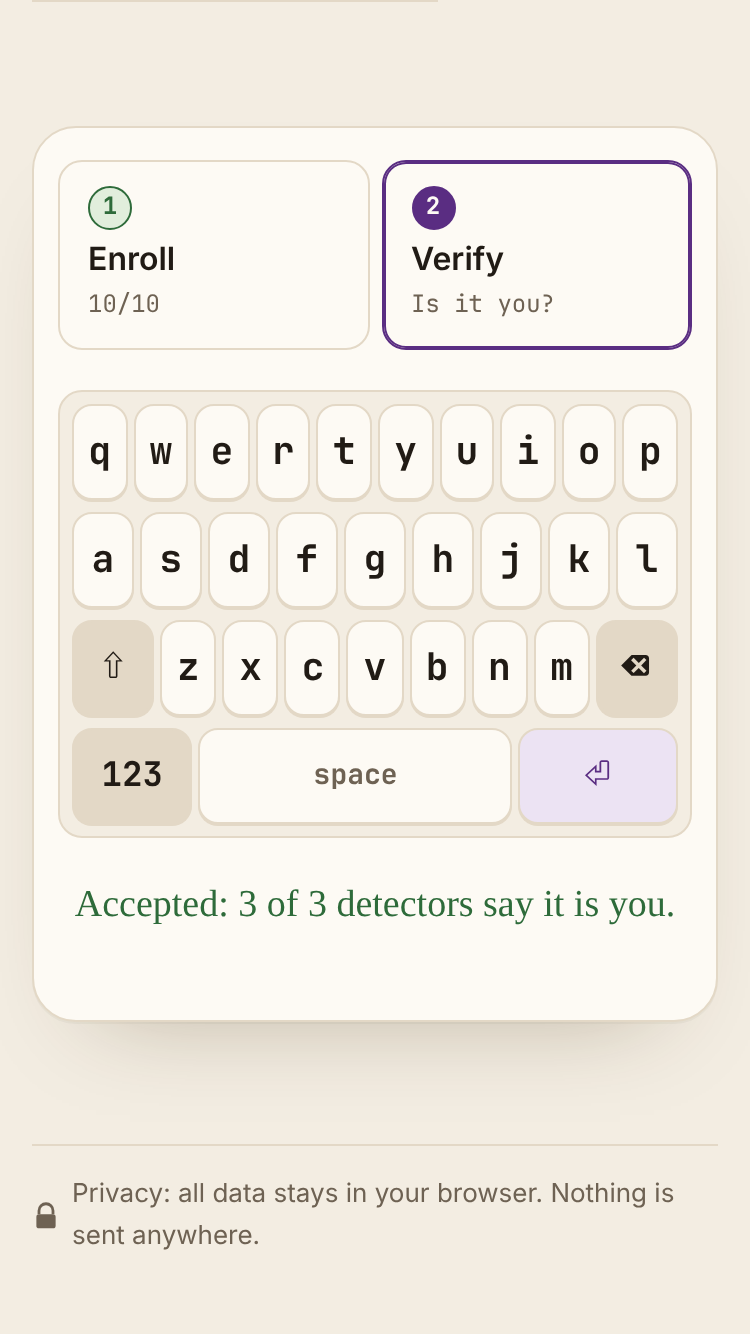
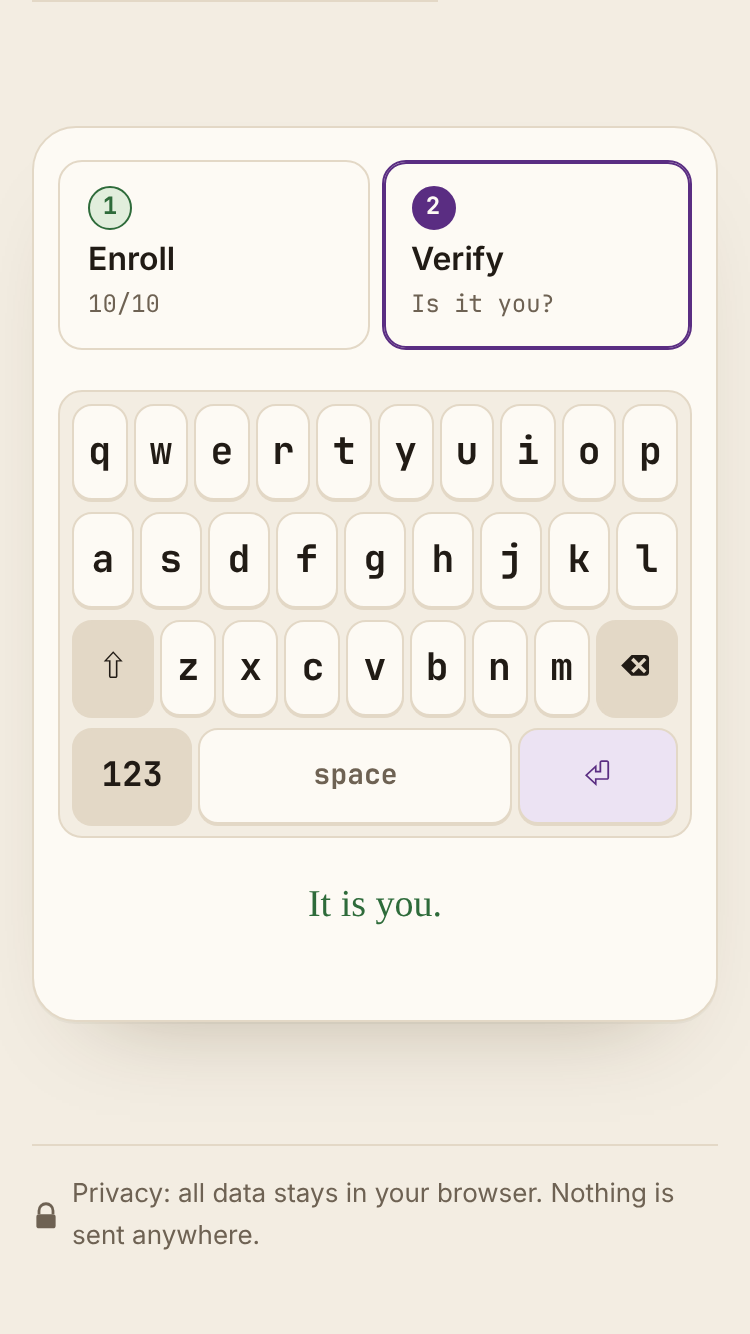
Add an "Is it really you?" backup option on Verify (#9)
* Add an "Is it really you?" backup option on Verify

The security question is now offered on the Verify step before any try and
after any rejection (wrong password or rhythm), not only after a rhythm
reject. It hides once a try is accepted. How it works, README and e2e tests
updated.

Claude-Session: https://claude.ai/code/session_01B27shn1UA1Th7jNnUgoiUQ

* Verify: say "It is you." on accept, a funny line on a rhythm reject

Drop the detector vote count from the Try it messages. The Detectors tab
still shows the vote table.

Claude-Session: https://claude.ai/code/session_01B27shn1UA1Th7jNnUgoiUQ

---------

Changed region(s): [[0.368, 0.6454, 0.7053, 0.7069], [0.1227, 0.6762, 0.3067, 0.7069], [0.7667, 0.6762, 0.8893, 0.7069]]

diff --git a/index.html b/index.html
@@ -188,6 +188,8 @@ h2{font-size:12px;letter-spacing:.14em}
 .try .status.ok{color:var(--ok)} .try .status.bad{color:var(--bad)}
 /* Try it: reset (Enroll only) and the security-question backup sit under the message */
 .stage-foot{display:flex;justify-content:center}
+.btn.quiet{border-color:transparent;background:none;color:var(--accent);text-decoration:underline;text-underline-offset:3px;min-height:36px}
+.btn.quiet:hover{border-color:transparent;text-decoration-thickness:2px}
 .capture{display:grid;gap:20px}
 /* set up: own password + security question */
 .setup{display:grid;gap:18px}
@@ -327,7 +329,7 @@ h2{font-size:12px;letter-spacing:.14em}
       <div class="keypad" id="keypad" role="group" aria-label="On-screen keyboard" hidden></div>
     </div>
     <div class="status" id="status" aria-live="polite">First, create your own password and a security question.</div>
-    <div class="stage-foot" id="recover-row" hidden><button class="btn" id="recover-open" type="button">It is me: answer my security question</button></div>
+    <div class="stage-foot" id="recover-row" hidden><button class="btn quiet" id="recover-open" type="button" aria-label="Is it really you? Answer your security question">Is it really you?</button></div>
     <form class="recover" id="recover" hidden>
       <p class="recover-q" id="recover-q"></p>
       <label for="recover-a" class="sr-only">Your answer</label>
@@ -434,7 +436,7 @@ h2{font-size:12px;letter-spacing:.14em}
           </tbody>
         </table>
       </div>
-      <p>These are the same messages you see on the Try it tab after a verify.</p>
+      <p>The Try it tab keeps it short: an accepted try just says <strong>It is you.</strong>, and a rejected one gets a cheeky line instead of the vote count.</p>
     </section>
 
     <div class="how-notes">
@@ -490,7 +492,7 @@ h2{font-size:12px;letter-spacing:.14em}
       </li>
       <li>
         <h3>Rejected but it really is you? Answer your question</h3>
-        <p>Your own rhythm can drift. When the right password is rejected on rhythm, the page offers your security question. Answer it correctly and you are let in, and the page offers to retrain on how you type now. Reset on the Enroll step wipes everything so you can start over with a new password.</p>
+        <p>Your own rhythm can drift. Under the password box on the Verify step there is an <strong>Is it really you?</strong> link, before you type and after any rejection. Tap it, answer your security question correctly, and you are let in, and the page offers to retrain on how you type now. Reset on the Enroll step wipes everything so you can start over with a new password.</p>
       </li>
     </ol>
 
@@ -1175,7 +1177,7 @@ if (typeof module !== 'undefined') module.exports = KPT;
   var tryCap = Capturer({
     input: $('pass'), keypad: $('keypad'), status: setStatus,
     blocked: function () { return checking ? 'One moment, checking the last try…' : null; },
-    onStart: function () { setStatus('Recording…'); showRecover(false); },
+    onStart: function () { setStatus('Recording…'); paintRecover(); },
     onComplete: function (r, device) { finishAttempt(r, device); }
   });
 
@@ -1211,20 +1213,28 @@ if (typeof module !== 'undefined') module.exports = KPT;
   }
   function train() { state.trained = state.samples.length >= 3 ? KP.trainAll(state.samples) : null; }
 
-  // ---------- verify: 2 of 3 detectors must accept; a rhythm reject offers the security question ----------
+  // ---------- verify: 2 of 3 detectors must accept; "Is it really you?" (the security question) is offered until a try is accepted ----------
+  // right password, wrong rhythm: one of these, picked at random
+  var NOT_YOU = [
+    'Nice try. You know the password, but your fingers just snitched on you.',
+    'Right password, wrong fingers. Who are you, and what did you do with the owner?',
+    'The password is correct. The vibes are not.',
+    'Those keys were pressed by a stranger. The keyboard never forgets a rhythm.',
+    'You typed it perfectly. Too bad perfectly like someone else.'
+  ];
   function onVerify(x) {
     if (!state.trained) { setStatus('Train a profile first.', 'bad'); return; }
     var accepts = KP.DETECTORS.filter(function (d) {
       return d.score(state.trained[d.id].model, x) <= KP.thresholdAt(state.trained[d.id].loo, state.frr);
     }).length, ok = accepts >= 2;
-    setStatus(ok ? 'Accepted: ' + accepts + ' of 3 detectors say it is you.' : 'Rejected: right password, but only ' + accepts + ' of 3 detectors say it is you.', ok ? 'ok' : 'bad');
-    showRecover(!ok);
+    setStatus(ok ? 'It is you.' : NOT_YOU[Math.floor(Math.random() * NOT_YOU.length)], ok ? 'ok' : 'bad');
+    if (ok) $('recover-row').hidden = true;
   }
 
-  // ---------- security question (backup after a rhythm reject) ----------
-  function showRecover(on) {
-    $('recover-row').hidden = !on;
-    if (!on) { $('recover').hidden = true; $('retrain-row').hidden = true; }
+  // ---------- security question: the "Is it really you?" backup on the Verify step ----------
+  function paintRecover() {
+    $('recover-row').hidden = !(account && state.trained && state.step === 'verify');
+    $('recover').hidden = true; $('retrain-row').hidden = true;
   }
   $('recover-open').addEventListener('click', function () {
     $('recover-row').hidden = true; $('recover').hidden = false;
@@ -1245,7 +1255,7 @@ if (typeof module !== 'undefined') module.exports = KPT;
     }, function () { $('recover-check').disabled = false; $('recover-msg').textContent = 'This browser could not check the answer.'; });
   });
   $('retrain').addEventListener('click', function () {
-    showRecover(false); clearSamples();
+    clearSamples();
     setStatus('Retraining. Step 1: type your password 10 times.', 'ok'); tryCap.focus();
   });
 
@@ -1271,7 +1281,7 @@ if (typeof module !== 'undefined') module.exports = KPT;
     try { localStorage.removeItem(ACCOUNT); localStorage.removeItem(STORE.desktop); localStorage.removeItem(STORE.mobile); } catch (e) { }
     account = null;
     state.samples = []; state.trained = null; state.frr = 0.05; state.lastX = null;
-    showRecover(false); setStep('enroll'); render();
+    setStep('enroll'); render();
     setStatus('Reset done. Create a new password to start again.', 'ok');
   }
   function resetButton(b, after) {
@@ -1352,11 +1362,10 @@ if (typeof module !== 'undefined') module.exports = KPT;
     });
     $('cap-h').textContent = setup ? 'Create your password' : HEADINGS[state.step];
     $('reset-row').hidden = setup || state.step !== 'enroll';
-    if (setup) showRecover(false);
+    paintRecover();
   }
   function setStep(s, focus) {
     if (s !== 'enroll' && !state.trained) s = 'enroll';
-    if (s !== state.step) showRecover(false);
     state.step = s; tryCap.reset();
     paintSteps();
     if (focus) tryCap.focus();
@@ -1407,7 +1416,7 @@ if (typeof module !== 'undefined') module.exports = KPT;
   window.KeyPrint = {
     lastVector: function () { return state.lastX && state.lastX.slice(); }, device: function () { return state.device; },
     keypad: function () { return keypadOn; }, samples: function () { return state.samples.length; }, trained: function () { return !!state.trained; },
-    hasAccount: function () { return !!account; }, busy: function () { return checking; },
+    hasAccount: function () { return !!account; }, busy: function () { return checking; }, notYou: function () { return NOT_YOU.slice(); },
     featureNames: function () { var n = dim(); return n ? (state.device === 'mobile' ? KPT.featureNames((n + 2) / 5) : KPF.names((n + 2) / 3)) : []; }
   };
 

diff --git a/test_e2e.js b/test_e2e.js
@@ -2,7 +2,7 @@
 // Phone (375×667, touch, DPR 2): create a password, real touch input via CDP on the full on-screen keyboard (Shift, 123),
 // keypad attempt -> 31 + 22 features, multi-touch, Backspace, enroll + verify, canvas DPR + resize, touch targets, no overflow.
 // Desktop (1440×900): password rules and inline errors, keyboard attempt -> 31 features, wrong password not counted,
-// rhythm reject -> security question -> retrain, Reset on the Enroll step only, no shared passphrase anywhere, How it works, Detectors tab.
+// "Is it really you?" always on Verify -> security question -> retrain, Reset on the Enroll step only, no shared passphrase anywhere, How it works, Detectors tab.
 // Writes docs/screenshots/*.png.
 'use strict';
 const path = require('path');
@@ -169,7 +169,10 @@ async function typeKeys(page, keys) {
   for (let k = 1; k < 10; k++) { await tapAttempt(page, t, '#keypad', { id0: 1000 * k, off: (i) => [0.05 * Math.sin(i + k), 0.1] }); await waitIdle(page); }
   check('10 keypad samples -> trained phone profile', await page.evaluate(() => KeyPrint.trained() && KeyPrint.samples() === 10));
   await tapAttempt(page, t, '#keypad', { id0: 50000, off: () => [0, 0.1] }); await waitIdle(page);
-  check('verify attempt gives a verdict', /Accepted|Rejected/.test(await page.textContent('#status')));
+  const verdict = () => page.evaluate(() => { const s = document.getElementById('status').textContent; return s === 'It is you.' ? 'yes' : KeyPrint.notYou().includes(s) ? 'no' : s; });
+  const v1 = await verdict();
+  check('verify attempt gives a verdict ("It is you." or a funny line, no detector count)', (v1 === 'yes' || v1 === 'no') && !/of 3 detectors/.test(await page.textContent('#status')), v1);
+  check('"Is it really you?" shown after a reject, hidden after an accept', (await page.isVisible('#recover-open')) === (v1 === 'no'));
   await page.screenshot({ path: path.join(SHOTS, 'mobile-375.png') });
   await page.screenshot({ path: path.join(SHOTS, 'mobile-375-full.png'), fullPage: true });
   const prof = await page.evaluate(() => JSON.parse(localStorage.getItem('keyprint.profile.mobile.v2')));
@@ -238,16 +241,20 @@ async function typeKeys(page, keys) {
   await page.reload(); await sleep(150);
   check('desktop profile trained (synthetic example)', await page.evaluate(() => KeyPrint.trained() && KeyPrint.device() === 'desktop'));
   check('Verify step open once trained', await page.evaluate(() => !document.getElementById('step-verify').disabled));
-  check('Verify hides Reset', (await tryParts()) === 'capture,status' && !(await page.isVisible('#reset')), await tryParts());
+  check('Verify hides Reset, shows "Is it really you?"', (await tryParts()) === 'capture,status,recover-row' && !(await page.isVisible('#reset')), await tryParts());
+  check('"Is it really you?" is on Verify before any try', (await page.textContent('#recover-open')) === 'Is it really you?' && await page.isVisible('#recover-open'));
+  await page.click('#step-enroll'); await sleep(60);
+  check('"Is it really you?" is not on Enroll', !(await page.isVisible('#recover-open')));
+  await page.click('#step-verify'); await sleep(60);
   await page.screenshot({ path: path.join(SHOTS, 'desktop-1440.png') });
 
-  // wrong password on Verify: rejected, no security question
+  // wrong password on Verify: rejected, "Is it really you?" stays
   await page.click('#pass'); await typeKeys(page, 'Tr0ub4dor?'.split('').concat('Enter'));
-  check('Verify, wrong password: rejected without the security question', /Rejected: that is not the password/.test(await page.textContent('#status')) && !(await page.isVisible('#recover-open')));
-  // right password, but this robot is not the synthetic typist: rejected on rhythm -> security question
+  check('Verify, wrong password: rejected, "Is it really you?" still offered', /Rejected: that is not the password/.test(await page.textContent('#status')) && await page.isVisible('#recover-open'));
+  // right password, but this robot is not the synthetic typist: rejected on rhythm -> "Is it really you?" -> security question
   await typeKeys(page, PASS);
-  check('Verify, right password, other rhythm: rejected on rhythm', /Rejected: right password/.test(await page.textContent('#status')), await page.textContent('#status'));
-  check('offers the security question', await page.isVisible('#recover-open'));
+  check('Verify, right password, other rhythm: rejected with a funny line', await page.evaluate(() => KeyPrint.notYou().includes(document.getElementById('status').textContent) && document.getElementById('status').classList.contains('bad')), await page.textContent('#status'));
+  check('"Is it really you?" still offered after a rhythm reject', await page.isVisible('#recover-open'));
   await page.click('#recover-open');
   check('shows your own question', (await page.textContent('#recover-q')) === Q && await page.evaluate(() => document.activeElement.id === 'recover-a'));
   await page.fill('#recover-a', 'red comet'); await page.click('#recover-check');
@@ -255,7 +262,7 @@ async function typeKeys(page, keys) {
   check('wrong answer refused', /not right/.test(await page.textContent('#recover-msg')) && !(await page.isVisible('#retrain')));
   await page.fill('#recover-a', '  blue   COMET '); await page.click('#recover-check');
   await page.waitForSelector('#retrain', { state: 'visible' });
-  check('right answer (any case, extra spaces) lets you in and offers retraining', /Correct answer: you are in/.test(await page.textContent('#status')) && !(await page.isVisible('#recover')));
+  check('right answer (any case, extra spaces) lets you in and offers retraining', /Correct answer: you are in/.test(await page.textContent('#status')) && !(await page.isVisible('#recover')) && !(await page.isVisible('#recover-open')));
   await page.screenshot({ path: path.join(SHOTS, 'desktop-1440-recover.png') });
   await page.click('#retrain');
   check('Retrain clears the rhythm but keeps the password', await page.evaluate(() => KeyPrint.samples() === 0 && !KeyPrint.trained() && KeyPrint.hasAccount() &&
@@ -281,6 +288,7 @@ async function typeKeys(page, keys) {
   // How it works: plain walkthrough only, no Reset
   await page.click('#tab-how'); await sleep(120);
   check('How it works is a 7-step walkthrough', (await page.$$('#view-how .walk > li')).length === 7);
+  check('How it works explains "Is it really you?"', /Is it really you\?/.test(await page.textContent('#view-how .walk')));
   check('old session panels are gone', await page.evaluate(() => ['timeline', 'rhythm', 'overall', 'verdicts', 'devs', 'tally', 'force-keypad', 'thr-table', 'test-out', 'export'].every((id) => !document.getElementById(id))));
   await page.screenshot({ path: path.join(SHOTS, 'desktop-1440-how.png'), fullPage: true });
   await page.click('#view-how a[data-goto="detectors"]'); await sleep(120);

diff --git a/README.md b/README.md
@@ -27,7 +27,7 @@ Passwords check what you typed. KeyPrint checks how long you held each key, how 
 - **Create your password:** the first thing you do. It needs at least 8 characters, a capital letter, a number and a special character, and the rules tick off as you type. You also write your own security question and answer. Only salted hashes (PBKDF2-SHA-256) of the password and the answer are stored, in this browser.
 - **Enroll:** type your password ten times so KeyPrint learns your rhythm. A wrong password is not counted.
 - **Verify:** type it once more and three detectors vote on whether it is really you. Hand the keyboard to a friend and watch it turn them down.
-- **Security question:** if the right password is rejected on rhythm, you can answer your question to get in, and then retrain on how you type now.
+- **Is it really you?:** the Verify step shows an "Is it really you?" link until a try is accepted. It opens your security question as a backup: answer it to get in, and then retrain on how you type now.
 - **Phone mode:** on a phone, an on-screen keyboard (letters, Shift, numbers and symbols) records where your thumb lands, not just when.
 - **Reset:** a Reset button on the Enroll step of Try it wipes your password, question and profile so you can start again with a new password. It is hidden during Verify.
 - **Detectors:** the Detectors tab explains the three detectors in plain language, each with a small worked example (real numbers from the real code), and shows how the 2-of-3 vote decides the verdict.
